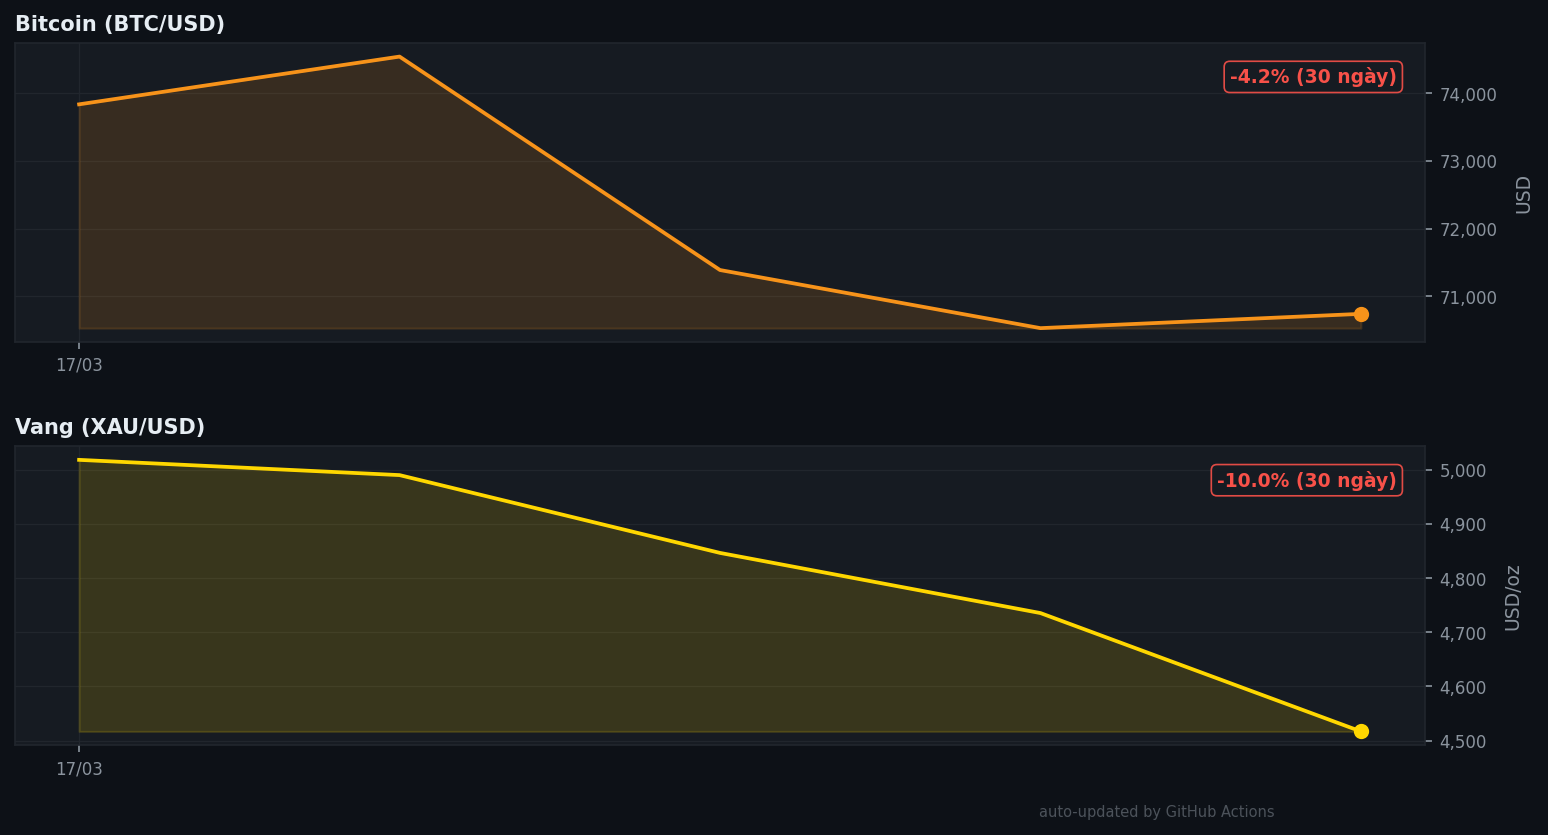
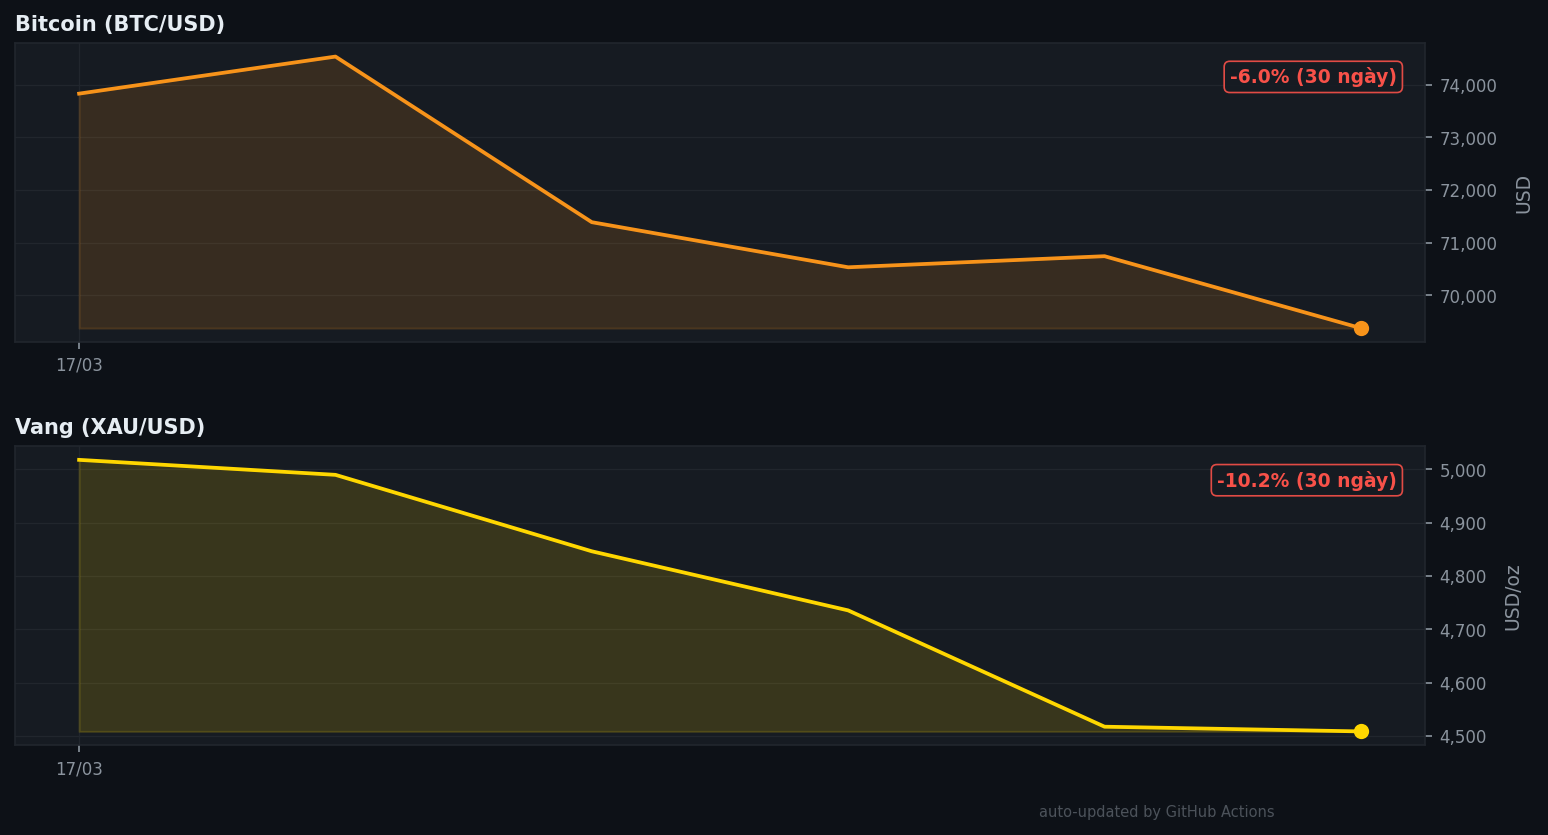
📊 Auto-update: 2026-03-22 03:34 UTC

diff --git a/README.md b/README.md
@@ -3,34 +3,34 @@
 **Dự án tự động cập nhật giá Bitcoin và Vàng mỗi ngày qua GitHub Actions.**
 
 <!-- PRICE_START -->
-## 📊 Giá hôm nay — 2026-03-21
+## 📊 Giá hôm nay — 2026-03-22
 
-> ⏱ Tự động cập nhật lúc **2026-03-21 03:14 UTC** bởi [GitHub Actions](.github/workflows/update.yml)
+> ⏱ Tự động cập nhật lúc **2026-03-22 03:34 UTC** bởi [GitHub Actions](.github/workflows/update.yml)
 
 ### ₿ Bitcoin
 
 | | Giá trị |
 |---|---|
-| 💰 Giá hiện tại | **$70,740.00** |
-| 🟢 ▲ Thay đổi 24h | `+0.40%` |
-| 📦 Market Cap | $1.41T |
-| 🔄 Volume 24h | $37.18B |
+| 💰 Giá hiện tại | **$69,371.00** |
+| 🔴 ▼ Thay đổi 24h | `-1.81%` |
+| 📦 Market Cap | $1.39T |
+| 🔄 Volume 24h | $27.56B |
 
 ### 🥇 Vàng (XAU)
 
 | | Giá trị |
 |---|---|
-| 💰 Giá / troy oz | **$4,517.13** |
-| ⚖ Giá / gram | $145.23 |
-| 🇻🇳 Giá / gram (VNĐ) | 3,794,550 ₫ |
+| 💰 Giá / troy oz | **$4,508.27** |
+| ⚖ Giá / gram | $144.94 |
+| 🇻🇳 Giá / gram (VNĐ) | 3,792,588 ₫ |
 
-### 📈 Thống kê 5 ngày qua
+### 📈 Thống kê 6 ngày qua
 
 | | Bitcoin | Vàng |
 |---|---|---|
 | 🔺 Cao nhất | $74,538 | $5,018/oz |
-| 🔻 Thấp nhất | $70,529 | $4,517/oz |
-| 📉 Thay đổi | `+-4.2%` | `-10.0%` |
+| 🔻 Thấp nhất | $69,371 | $4,508/oz |
+| 📉 Thay đổi | `-6.0%` | `-10.2%` |
 
 ### 📉 Biểu đồ 30 ngày
 
